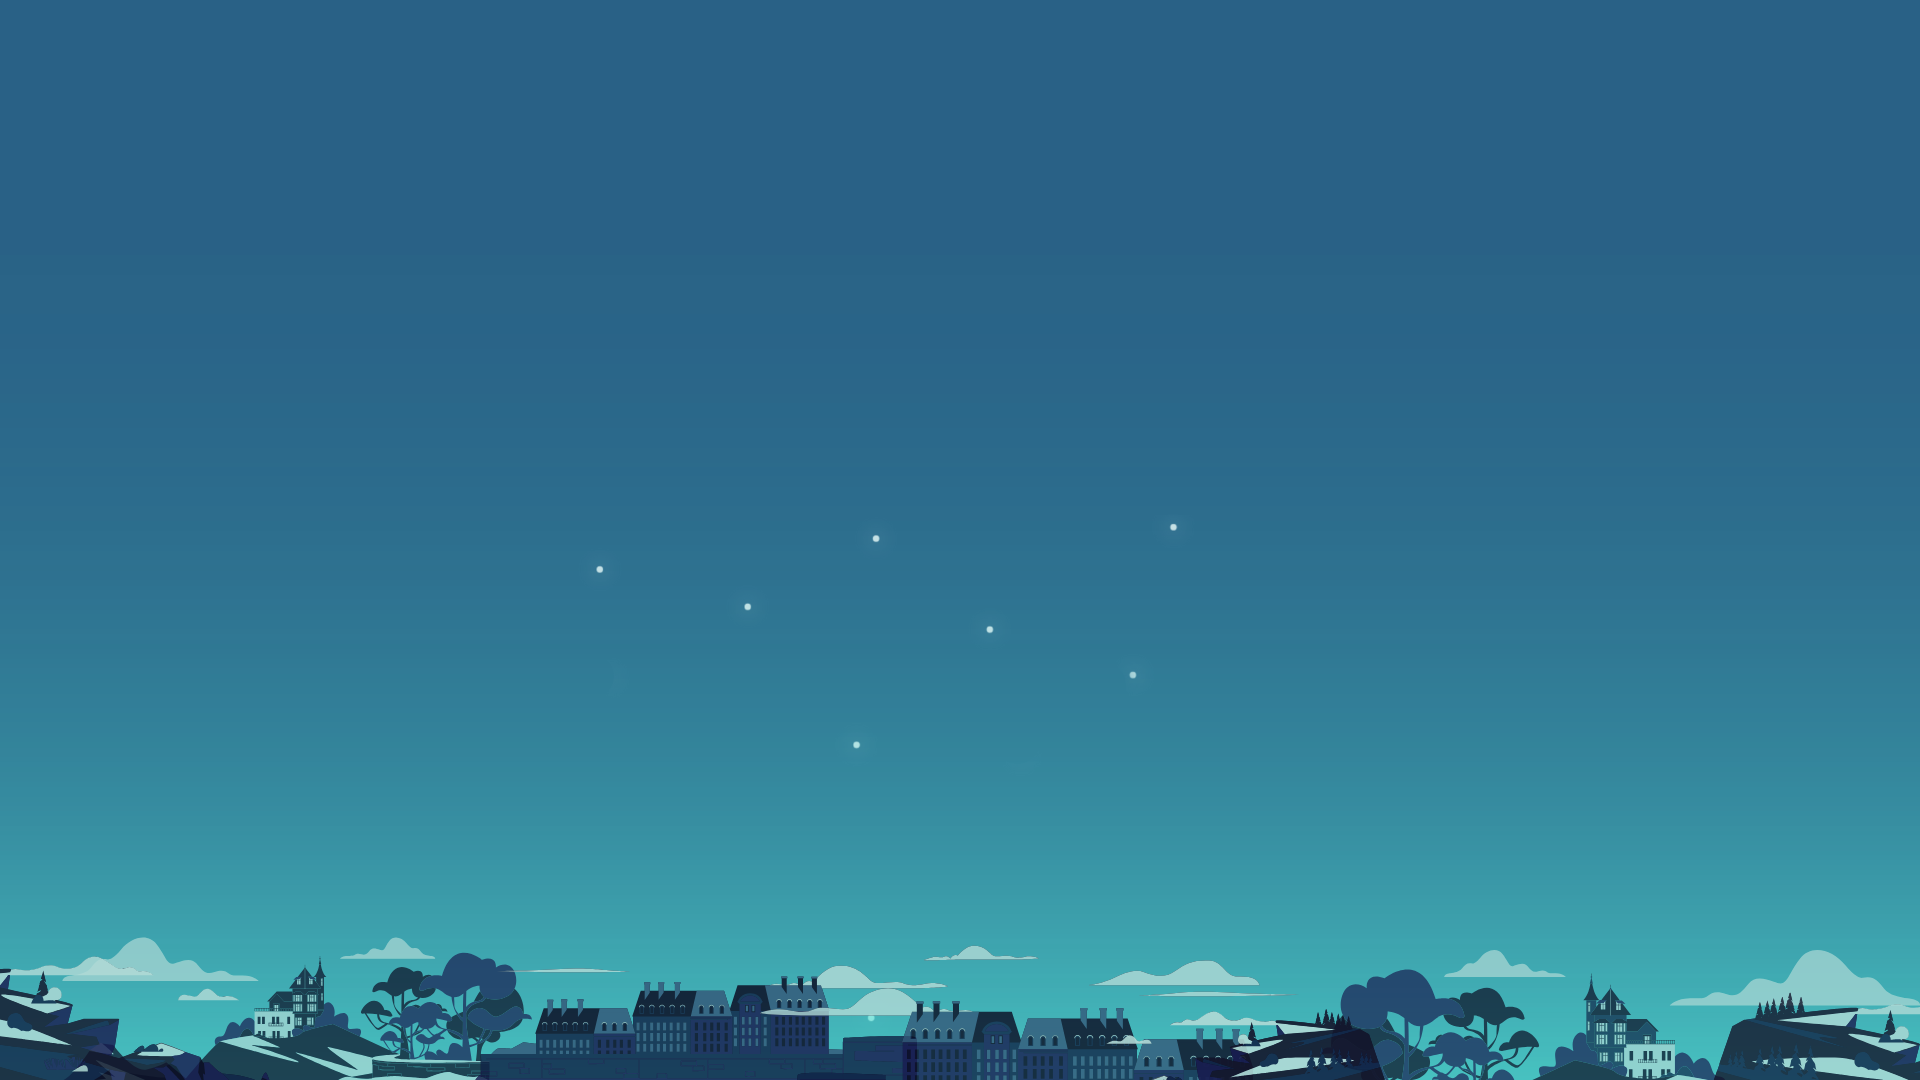
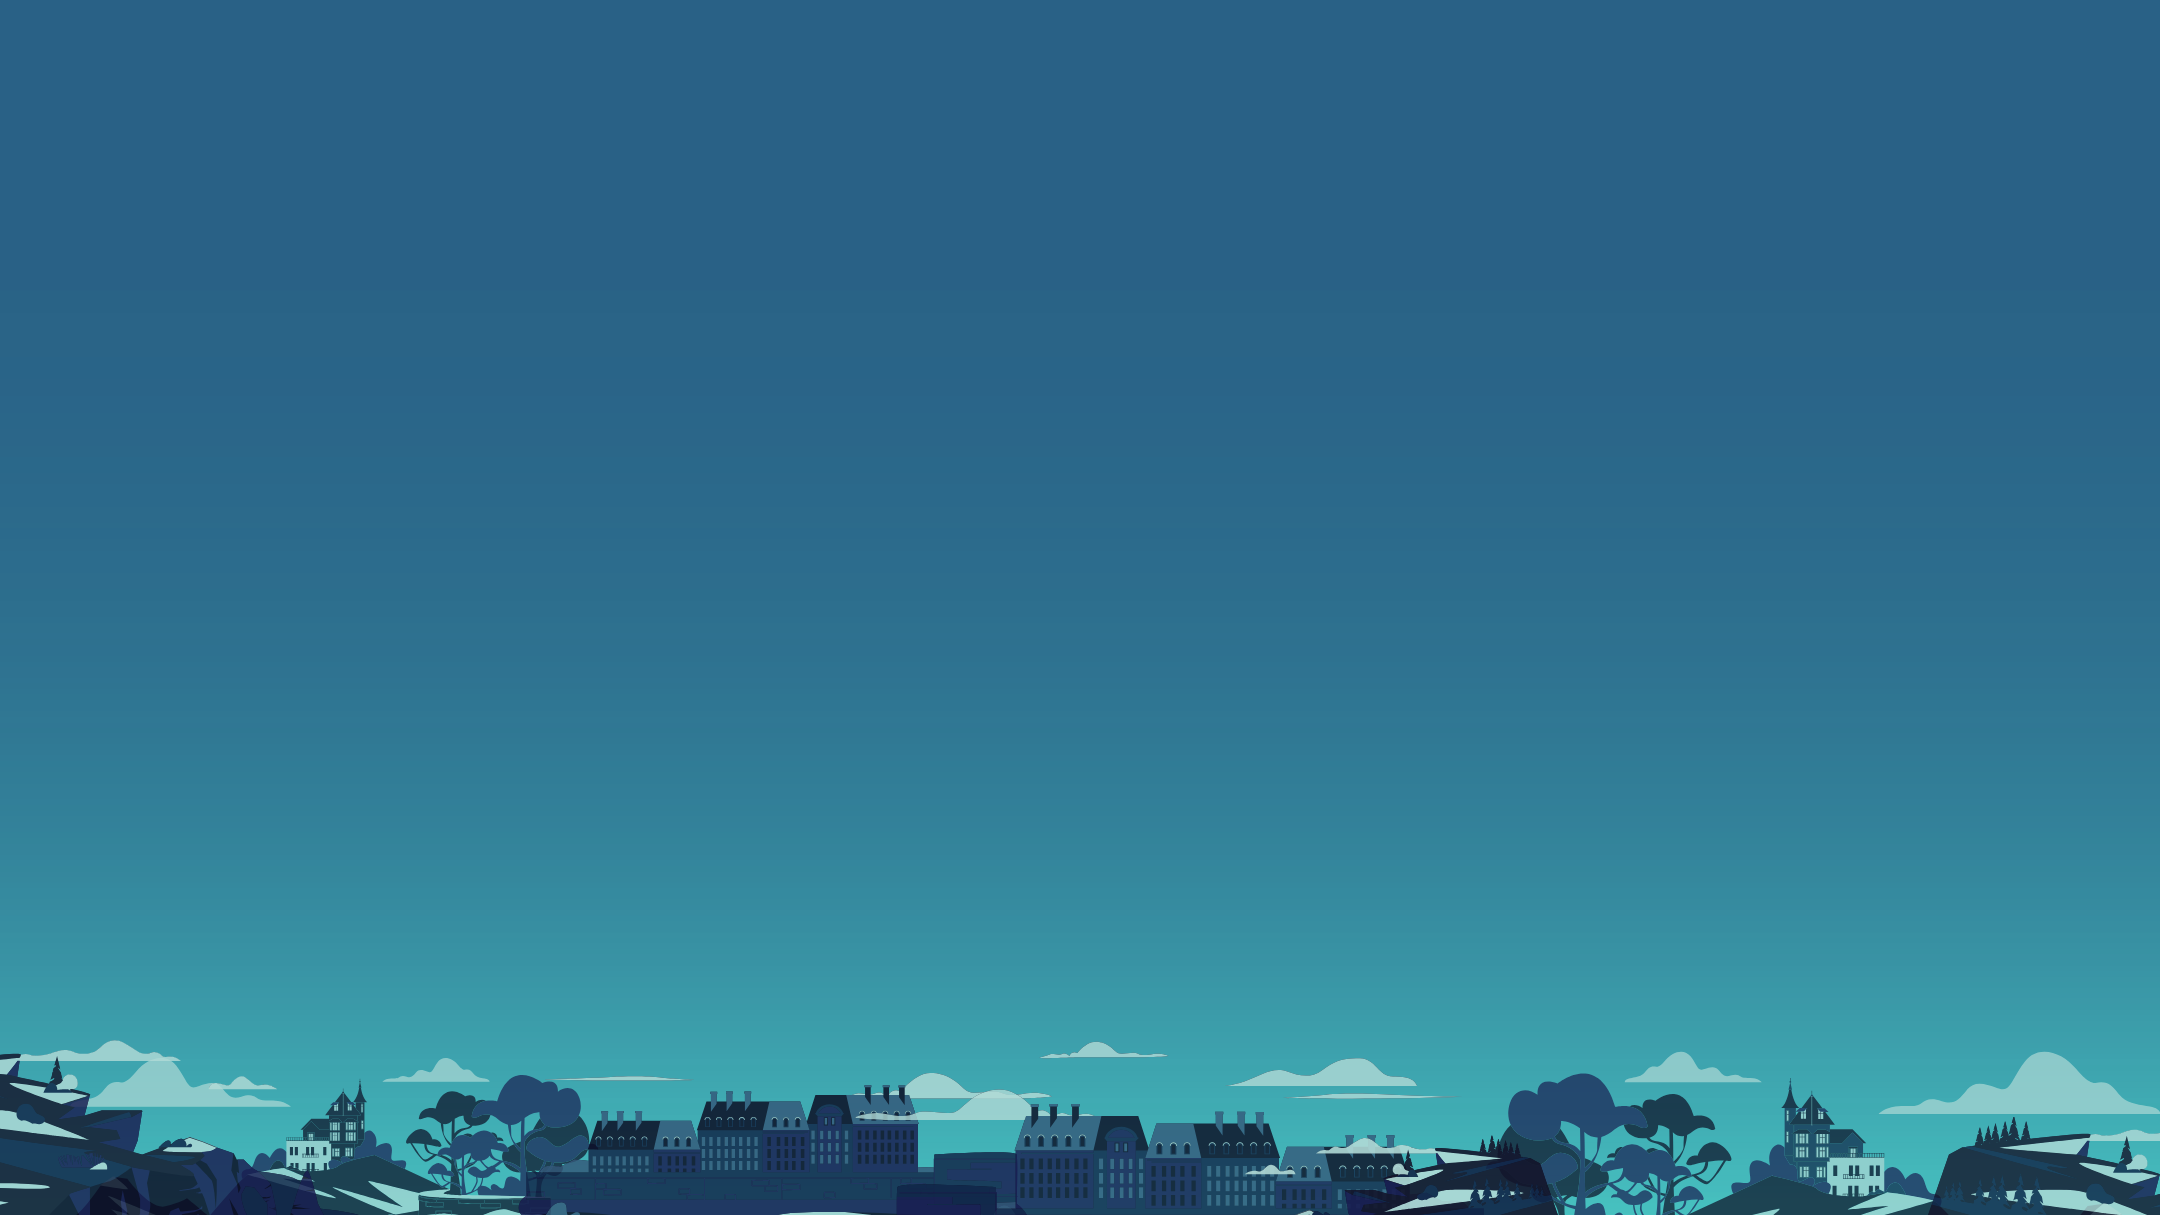
added new theme

Changed region(s): [[0.0, 0.8556, 0.6562, 1.0], [0.6875, 0.8556, 1.0, 1.0], [0.5, 0.8556, 0.5312, 0.8861]]

diff --git a/src/components/section/Project.tsx b/src/components/section/Project.tsx
@@ -1,18 +1,21 @@
 import React from 'react'
 import { ParallaxLayer } from '@react-spring/parallax'
-import night_sky from '../../assests/project_background.png'
-import whale from '../../assests/whale.png'
+import me from '../../assests/me_in_space.png'
 import Image from 'next/image'
+import './Project.css'
 
 const Project = () => {
   return (
     <>
     <ParallaxLayer offset={3} speed={1} style={{top:0,bottom:0,left:0,right:0}} >
-    <div style={{backgroundImage:`url(${night_sky.src})`,backgroundRepeat:'no-repeat',backgroundSize:'cover', height:'100%',backgroundPositionY:'Bottom' }}>Project</div>
+    <div style={{background:'black',backgroundRepeat:'no-repeat',backgroundSize:'cover', height:'100%',backgroundPositionY:'Bottom' }}>Project</div>
     </ParallaxLayer>
-    <ParallaxLayer offset={3} speed={0.5} style={{right:0,bottom:50,top:50}}>
-        <Image src={whale.src} alt='whale'  height={500} width={500}/>
+    <ParallaxLayer offset={3} speed={0.5} style={{top:0,bottom:0,left:0,right:0}} >
+      <Image  src={me.src} height={50} width={100} alt='logo' className='animate-spin-float'/>
+      
     </ParallaxLayer>
+    
+
     </>
 
   )

diff --git a/src/components/section/Project.css b/src/components/section/Project.css
@@ -1,0 +1,19 @@
+.animate-spin-float {
+    animation: spin-float 5s linear infinite; /* Adjust the duration (5s) and timing function to your preference */
+  }
+  
+  @keyframes spin-float {
+    0%, 100% {
+      transform: translateY(0) rotate(0); /* Start and end position */
+    }
+    25% {
+      transform: translateY(20px) rotate(-45deg); /* Move down and rotate counter-clockwise */
+    }
+    50% {
+      transform: translateY(0) rotate(0); /* Return to the initial position */
+    }
+    75% {
+      transform: translateY(-20px) rotate(45deg); /* Move up and rotate clockwise */
+    }
+  }
+  
